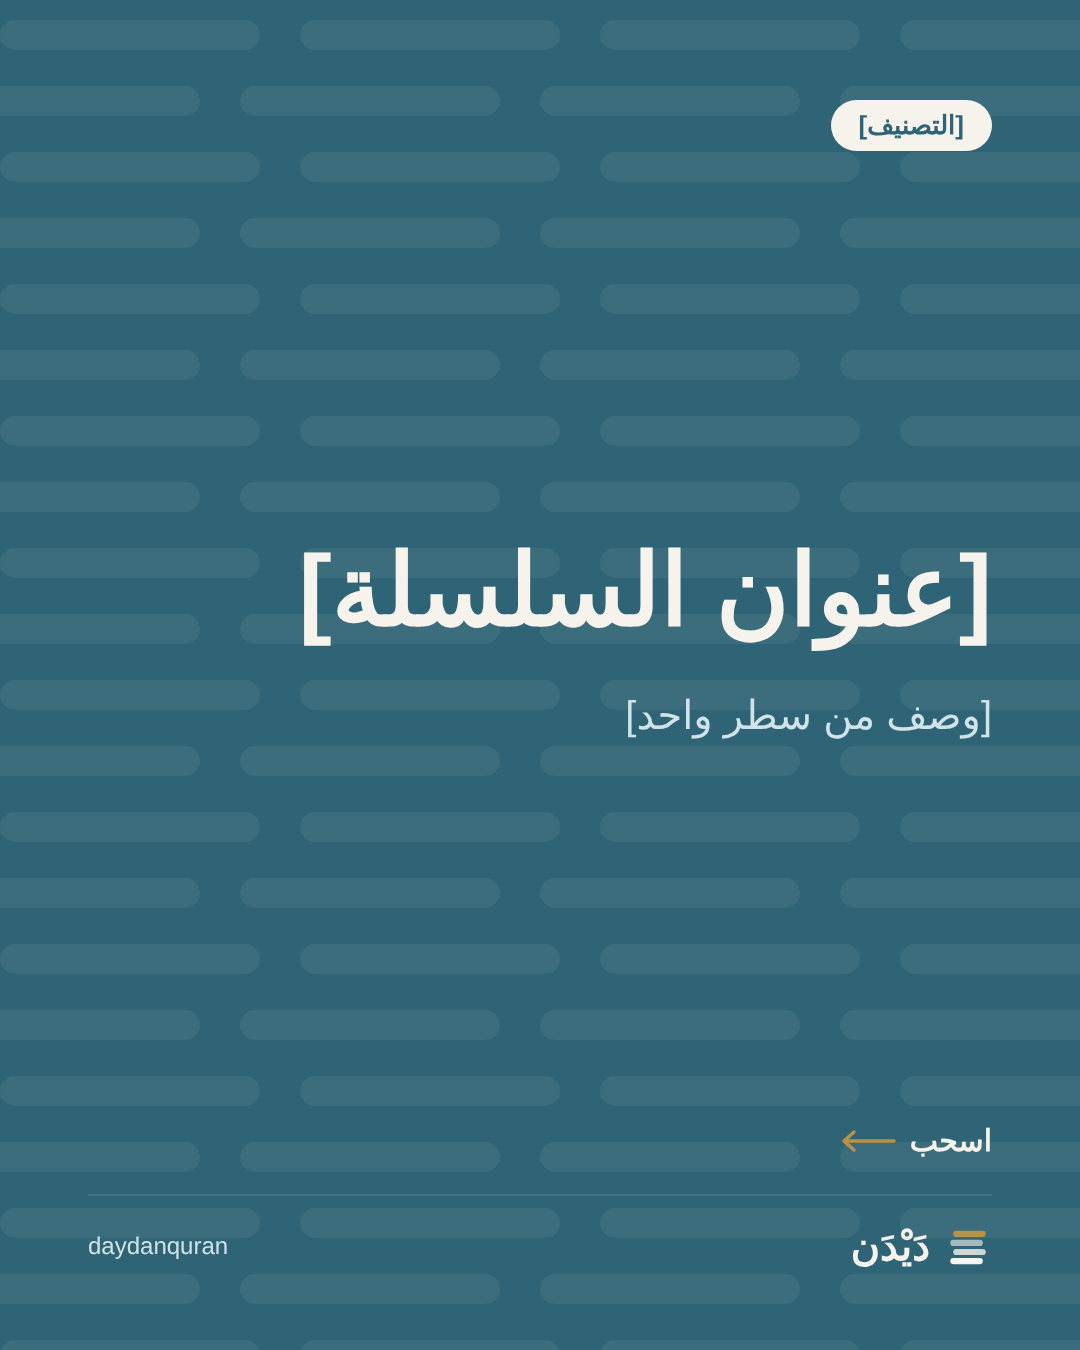
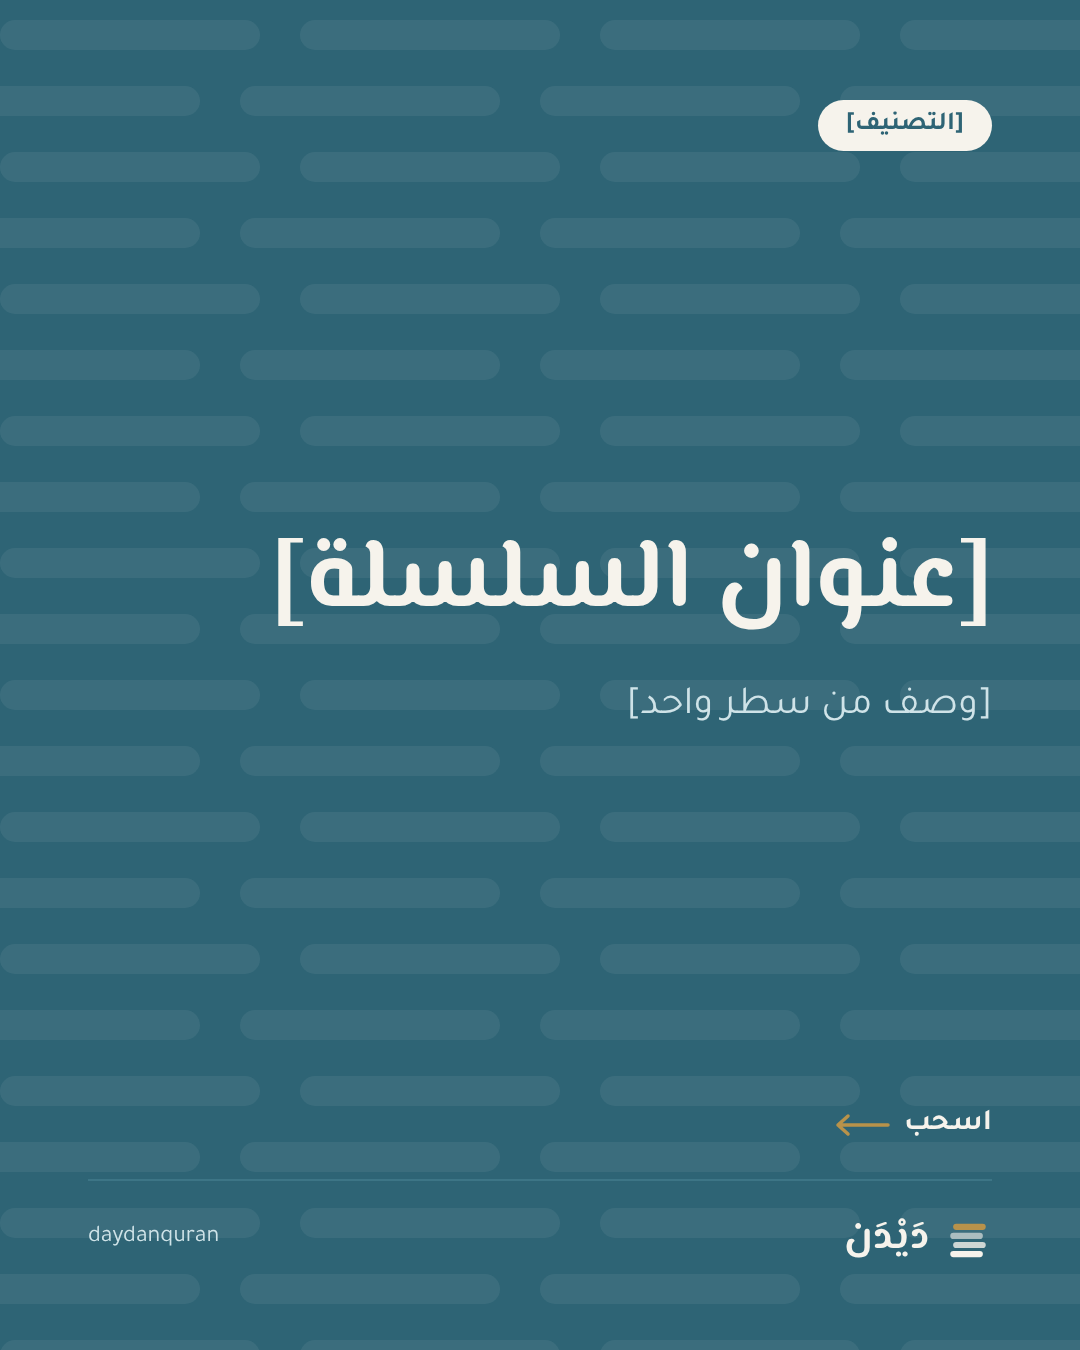
Handoff: document local brand fonts and fontcheck, refresh template previews

diff --git a/handoff/reference-code/fontcheck.py b/handoff/reference-code/fontcheck.py
@@ -1,0 +1,30 @@
+"""فحص الخطوط حرفاً حرفاً: هل كل نص في الصورة رُسم فعلاً بالخط المعلن له؟
+تحذير: document.fonts.check() يعطي true حتى لو لم يُحمَّل الخط، فلا تعتمد عليه.
+الاستخدام: python fontcheck.py templates-html/*.html   (يفشل بكود 1 عند أي حرف بخط بديل)
+يتطلب: pip install playwright ، والخطوط في brand/fonts (يحقنها localfonts.inject)."""
+import re, sys, asyncio, collections
+from playwright.async_api import async_playwright
+from localfonts import inject, load_all
+TEXT_NODES='''()=>[...document.querySelectorAll('*')].map((e,i)=>[...e.childNodes].some(n=>n.nodeType===3&&n.textContent.trim())?i:-1).filter(i=>i>=0)'''
+async def check(b,path):
+    s=inject(open(path,encoding='utf-8').read())
+    m=re.search(r'width: ?(\d+)px; ?height: ?(\d+)px',s); w,h=map(int,m.groups()) if m else (1080,1080)
+    pg=await b.new_page(viewport={'width':w,'height':h}); await pg.set_content(s,wait_until='load'); await load_all(pg)
+    cdp=await pg.context.new_cdp_session(pg); await cdp.send('DOM.enable'); await cdp.send('CSS.enable')
+    root=(await cdp.send('DOM.getDocument',{'depth':-1}))['root']['nodeId']
+    ids=(await cdp.send('DOM.querySelectorAll',{'nodeId':root,'selector':'*'}))['nodeIds']
+    direct=set(await pg.evaluate(TEXT_NODES)); bad=collections.Counter()
+    for i,nid in enumerate(ids):
+        if i not in direct: continue
+        st=(await cdp.send('CSS.getComputedStyleForNode',{'nodeId':nid}))['computedStyle']
+        fam=[x['value'] for x in st if x['name']=='font-family'][0].split(',')[0].strip("' \"")
+        for f in (await cdp.send('CSS.getPlatformFontsForNode',{'nodeId':nid}))['fonts']:
+            if fam.lower().replace(' ','') not in f['familyName'].lower().replace(' ',''): bad[(fam,f['familyName'])]+=f['glyphCount']
+    await pg.close(); return bad
+async def main(paths):
+    async with async_playwright() as p:
+        b=await p.chromium.launch(); fail=0
+        for path in paths:
+            bad=await check(b,path); fail+=sum(bad.values()); print(path,'OK' if not bad else f'FALLBACK {dict(bad)}')
+        await b.close(); sys.exit(1 if fail else 0)
+if __name__=='__main__': asyncio.run(main(sys.argv[1:]))

diff --git a/handoff/reference-code/localfonts.py b/handoff/reference-code/localfonts.py
@@ -1,0 +1,24 @@
+import base64, re, os
+D=os.environ.get('DAYDAN_FONTS_DIR', os.path.join(os.path.dirname(os.path.abspath(__file__)),'..','brand','fonts'))
+FACES=[('El Messiri','ElMessiri.ttf','400 700'),
+ ('Tajawal','Tajawal-Regular.ttf','400'),('Tajawal','Tajawal-Medium.ttf','500'),('Tajawal','Tajawal-Bold.ttf','700'),
+ ('Scheherazade New','ScheherazadeNew-Regular.ttf','400'),('Scheherazade New','ScheherazadeNew-Medium.ttf','500'),
+ ('Scheherazade New','ScheherazadeNew-SemiBold.ttf','600'),('Scheherazade New','ScheherazadeNew-Bold.ttf','700')]
+_css=None
+def css():
+    global _css
+    if _css is None:
+        _css=''.join("@font-face{font-family:'%s';src:url(data:font/ttf;base64,%s) format('truetype');font-weight:%s;font-style:normal;font-display:block}\n"
+            %(f,base64.b64encode(open(os.path.join(D,fn),'rb').read()).decode(),w) for f,fn,w in FACES)
+    return _css
+def inject(s):
+    s=re.sub(r'<link[^>]*fonts\.(googleapis|gstatic)\.com[^>]*>','',s)
+    return s.replace('<head>','<head><style>'+css()+'</style>',1) if '<head>' in s else '<style>'+css()+'</style>'+s
+FAMS=[f for f,_,_ in FACES]
+async def load_all(pg):
+    # force-load every face, then fail loudly if any face isn't loaded
+    st=await pg.evaluate("""async()=>{await Promise.all([...document.fonts].map(f=>f.load().catch(()=>null)));await document.fonts.ready;
+      return [...document.fonts].map(f=>f.family+' '+f.weight+' '+f.status)}""")
+    bad=[x for x in st if not x.endswith('loaded')]
+    if bad: raise RuntimeError('fonts not loaded: %s'%bad)
+    return st

diff --git a/handoff/prompts/claude-code-prompts.md b/handoff/prompts/claude-code-prompts.md
@@ -30,7 +30,7 @@ NEVER modify, trim, or "clean" Quran text or tafsir text beyond stripping HTML t
 ```
 Phase 2. In packages/media:
 (a) Audio: for each page, download per-ayah Husary MP3s and concatenate in order with ffmpeg into recitation.mp3 (mono). Record real duration per page in report.json.
-(b) Cards: render handoff/templates-html/*.html with Playwright (Chromium) at their exact pixel sizes, replacing every [placeholder] from page data. Use Arabic-Indic digits. Tafsir cards: split text across cards only at sentence boundaries, never mid-word; card counter like "١ / ٣". Load the Google Fonts and wait for document.fonts.ready before screenshot; fail if fonts did not load.
+(b) Cards: render handoff/templates-html/*.html with Playwright (Chromium) at their exact pixel sizes, replacing every [placeholder] from page data. Use Arabic-Indic digits. Tafsir cards: split text across cards only at sentence boundaries, never mid-word; card counter like "١ / ٣". Do NOT load Google Fonts in the renderer: inject handoff/brand/fonts/fonts.css (local TTFs, SIL OFL) and remove the Google Fonts <link>. Force-load every FontFace and fail if any is not 'loaded'. document.fonts.check() is NOT proof (it returns true on fallback): port handoff/reference-code/fontcheck.py (CDP CSS.getPlatformFontsForNode per text element) and fail the build if any glyph renders in a font other than the declared one.
 (c) Mushaf page image: use the official King Fahd Complex digital mushaf images (handoff/docs/07-licenses.md). Never draw anything on top of it.
 (d) Facebook page video (image + audio) and a ≤90s 9:16 reel clip.
 Build pages 1–5 first and send me the outputs to review before running all 604. Then write content/v1/<page>/ per docs/04 and a manifest.json with sha256 per file. Upload to R2 behind a flag.

diff --git a/handoff/README.md b/handoff/README.md
@@ -18,10 +18,10 @@
 | `prompts/claude-code-prompts.md` | برومبتات Claude Code مرحلة بمرحلة |
 | `marketing/marketing-plan.md` | الخطة التسويقية |
 | `marketing/content-prompts.md` | برومبتات كتابة المنشورات والرسائل |
-| `brand/` | الشعار SVG/PNG، الأيقونات، صورة الحساب، `tokens.css`، `tokens.json` |
+| `brand/` | الشعار SVG/PNG، الأيقونات، صورة الحساب، `tokens.css`، `tokens.json`، والخطوط في `brand/fonts/` |
 | `templates-html/` | قوالب المنشورات HTML (مصدر توليد الصور آلياً) |
 | `templates-preview/` | صور معاينة لكل القوالب |
-| `reference-code/` | `schedule.mjs` (حساب صفحة اليوم، مختبر)، `fetch-pages.mjs` (جلب البيانات)، `feasibility/` (أدوات فحص التسجيل الصوتي) |
+| `reference-code/` | `schedule.mjs` (حساب صفحة اليوم، مختبر)، `fetch-pages.mjs` (جلب البيانات)، `feasibility/` (أدوات فحص التسجيل الصوتي)، `fontcheck.py` + `localfonts.py` (فحص خطوط الصور حرفاً حرفاً) |
 
 ## البدء مع Claude Code
 1. أنشئ مستودعاً جديداً `daydan`، وضع هذا المجلد داخله باسم `handoff/`.

diff --git a/handoff/CLAUDE.md b/handoff/CLAUDE.md
@@ -30,7 +30,7 @@ Non-profit da'wah project. Owner: Mohamad AbdAlwahed (frontend engineer: React, 
 - Audio: concatenate per-ayah Husary murattal MP3s into one file per page with ffmpeg.
 
 ## Brand (short)
-Colors: primary `#2E6475`, text `#1F3A44`, paper `#F6F3EC`, rain `#7FB3C2` (decoration only), gold `#B8924A` (= "today" only). Fonts: El Messiri (display), Scheherazade New (reading/tafsir), Tajawal (UI). Tokens: `brand/tokens.css`, `brand/tokens.json`. Logo files: `brand/svg`, `brand/png`. Full rules: `docs/06-brand.md`.
+Colors: primary `#2E6475`, text `#1F3A44`, paper `#F6F3EC`, rain `#7FB3C2` (decoration only), gold `#B8924A` (= "today" only). Fonts: El Messiri (display), Scheherazade New (reading/tafsir), Tajawal (UI). Tokens: `brand/tokens.css`, `brand/tokens.json`. Logo files: `brand/svg`, `brand/png`. Full rules: `docs/06-brand.md`. Image rendering uses the local fonts in `brand/fonts/` (never Google Fonts in Playwright) and must pass `reference-code/fontcheck.py` with zero fallback glyphs.
 
 ## Working rules
 - Small PRs per phase (see `prompts/claude-code-prompts.md`). Write tests for: schedule math (timezone edges, 604 wraparound), content validators, idempotency, reading-log uniqueness.

diff --git a/handoff/docs/06-brand.md b/handoff/docs/06-brand.md
@@ -33,6 +33,8 @@
 | نص الواجهة | Tajawal 400 | 26 | 16 | 1.6 |
 | زر | Tajawal 700 | 24 | 16 | 1.2 |
 | تسمية صغيرة | Tajawal 500 | 20 | 13 | 1.4 |
+
+> **في توليد الصور آلياً:** ملفات الخطوط مرفقة في `brand/fonts/` مع `fonts.css`. لا تعتمد على Google Fonts داخل Playwright (قد لا تُحمَّل فيُرسم النص بخط بديل دون أي خطأ)، ولا على `document.fonts.check()` لأنها تعطي نجاحاً كاذباً. افحص كل صورة بـ `reference-code/fontcheck.py`.
 نص التفسير لا يقل عن 18px في التطبيق و36px في المنشورات.
 
 ## العناصر
